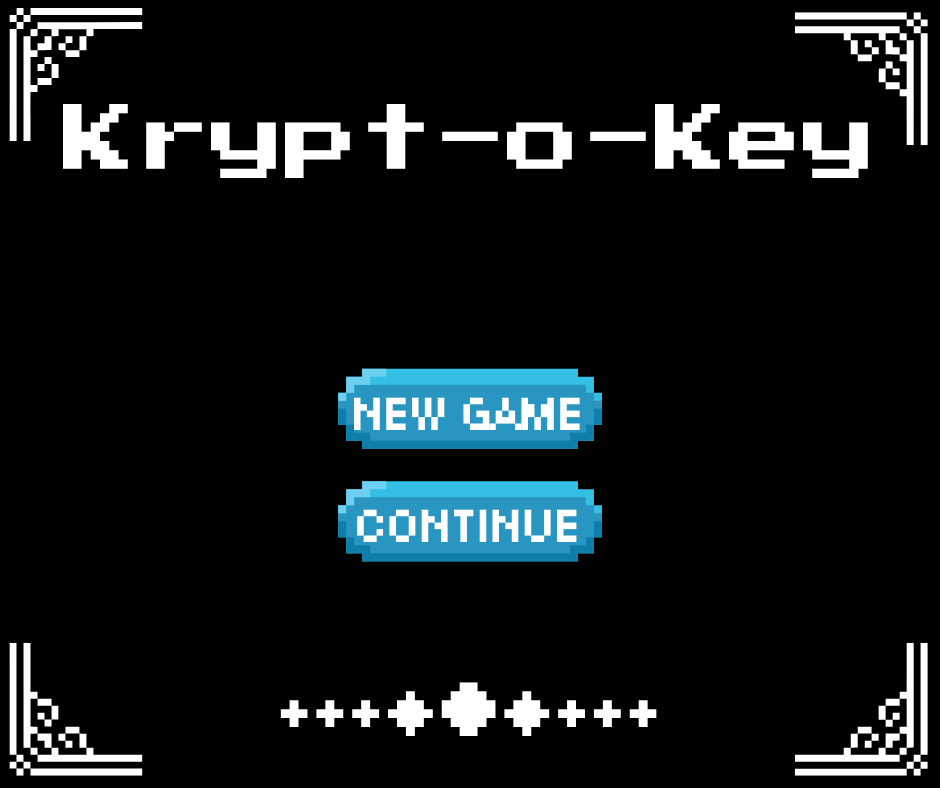
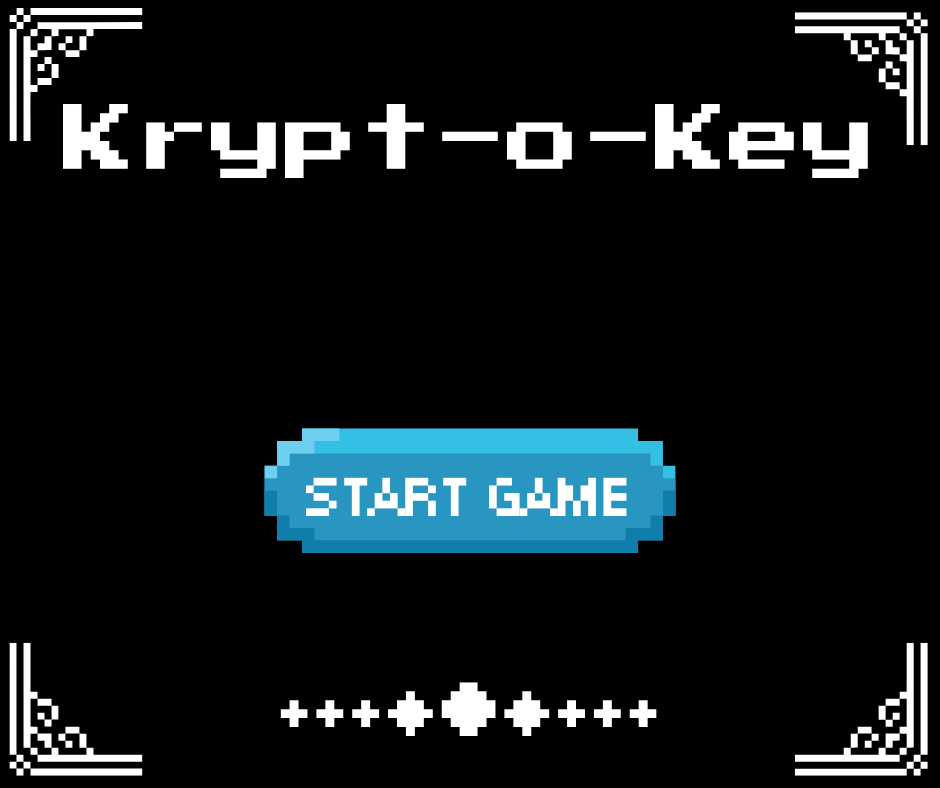
FEAT: working title screen

Changed region(s): [[0.2777, 0.4569, 0.7404, 0.731]]

diff --git a/src/src/MonsterGUI.java b/src/src/MonsterGUI.java
@@ -2,6 +2,8 @@ package src;
 
 import javax.swing.*;
 import java.awt.*;
+import java.awt.event.MouseAdapter;
+import java.awt.event.MouseEvent;
 
 public class MonsterGUI extends JFrame {
 
@@ -9,28 +11,65 @@ public class MonsterGUI extends JFrame {
         SwingUtilities.invokeLater(() -> {
             JFrame frame = new JFrame("Welcome Screen");
             frame.setDefaultCloseOperation(JFrame.EXIT_ON_CLOSE);
-            frame.setSize(940, 788);
+
+            //black boarder to surround extra space around image
+            int borderSize = 50;
+            int imgWidth = 940;
+            int imgHeight = 788;
+            frame.setSize(imgWidth + borderSize*2, imgHeight + borderSize*2);
 
             try {
-                // Proper way to load image from resources
-                ImageIcon icon = new ImageIcon(MonsterGUI.class.getResource("/resources/welcome.png"));
-                JLabel background = new JLabel(icon);
-                background.setLayout(new BorderLayout());
+                // Load and scale image (maintaining aspect ratio)
+                ImageIcon originalIcon = new ImageIcon(MonsterGUI.class.getResource("/resources/welcome.png"));
+                Image scaledImage = originalIcon.getImage().getScaledInstance(
+                        imgWidth,
+                        imgHeight,
+                        Image.SCALE_SMOOTH
+                );
 
-                // Add a start button
-                JButton startButton = new JButton("Start Game");
-                startButton.addActionListener(e -> {
-                    frame.dispose();
-                    System.out.println("Game starting...");
-                    // Add your game initialization here
+                // Create main panel with black border
+                JPanel mainPanel = new JPanel(new BorderLayout()) {
+                    @Override
+                    protected void paintComponent(Graphics g) {
+                        super.paintComponent(g);
+                        // Draw black border
+                        g.setColor(Color.BLACK);
+                        g.fillRect(0, 0, getWidth(), getHeight());
+                        // Draw image centered
+                        int x = (getWidth() - scaledImage.getWidth(null)) / 2;
+                        int y = (getHeight() - scaledImage.getHeight(null)) / 2;
+                        g.drawImage(scaledImage, x, y, this);
+                    }
+                };
+                mainPanel.setPreferredSize(new Dimension(
+                        imgWidth + borderSize*2,
+                        imgHeight + borderSize*2
+                ));
+
+                // Create invisible clickable area
+                JPanel clickArea = new JPanel();
+                clickArea.setOpaque(false);
+                clickArea.setBounds(250 + borderSize, 420 + borderSize, 430, 150);
+                clickArea.setCursor(new Cursor(Cursor.HAND_CURSOR));
+                clickArea.addMouseListener(new MouseAdapter() {
+                    @Override
+                    public void mouseClicked(MouseEvent e) {
+                        frame.dispose();
+                        System.out.println("Start Game clicked!");
+
+                    }
                 });
 
-                JPanel buttonPanel = new JPanel();
-                buttonPanel.setOpaque(false); // Make panel transparent
-                buttonPanel.add(startButton);
+                // Use layered pane for proper z-ordering
+                JLayeredPane layeredPane = new JLayeredPane();
+                layeredPane.setPreferredSize(mainPanel.getPreferredSize());
 
-                background.add(buttonPanel, BorderLayout.SOUTH);
-                frame.setContentPane(background);
+                mainPanel.setBounds(0, 0, layeredPane.getPreferredSize().width, layeredPane.getPreferredSize().height);
+                layeredPane.add(mainPanel, JLayeredPane.DEFAULT_LAYER);
+                layeredPane.add(clickArea, JLayeredPane.PALETTE_LAYER);
+
+                frame.setContentPane(layeredPane);
+
             } catch (Exception e) {
                 System.err.println("Error loading image: " + e.getMessage());
                 frame.add(new JLabel("<html><h1>Welcome Screen</h1><p>Image failed to load</p></html>"));
